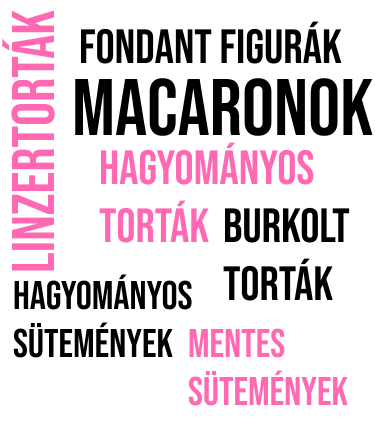
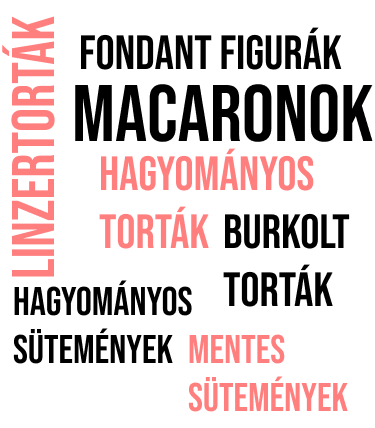
DesktopSlider

diff --git a/src/Components/UI/OpinionSwiper/OpinionData.js b/src/Components/UI/OpinionSwiper/OpinionData.js
@@ -1,68 +1,44 @@
 const Slides = [
   <p>
     „Hihetetlen milyen csodákat készítesz”
-    <br />
-    <br /> <strong>– Laura és Bence</strong>
+    {/*<br />
+    <br /> <strong>– Laura és Bence</strong>*/}
   </p>,
   <p>
     „Egy nap alatt elfogyott az egész, köszönjük!”
-    <br />
-    <br /> <strong>– Viki és Peti</strong>
   </p>,
   <p>
     „Profi munka, csodálatos.”
-    <br />
-    <br /> <strong>– Viki és Peti</strong>
   </p>,
   <p>
     „Megint nem csalódtunk...:)”
-    <br />
-    <br /> <strong>– Kati és Kristóf</strong>
   </p>,
   <p>
     „Ez olyan mint egy álom.
-    <br />
-    <br /> <strong>– Zoli</strong>
   </p>,
   <p>
     „Nagyon finom volt mind!! Mestermunka!!!”
-    <br />
-    <br /> <strong>– Marci</strong>
   </p>,
   <p>
     „Isteni finom és gyönyörű!”
-    <br />
-    <br /> <strong>– Dávid és Betti</strong>
   </p>,
   <p>
     „Óriási sikere volt!”
-    <br />
-    <br /> <strong>– Dávid és Betti</strong>
   </p>,
   <p>
     „Már megint egy csodát alkottál!”
-    <br />
-    <br /> <strong>– Dávid és Betti</strong>
   </p>,
   <p>
     „Ez nagyon klassz lett!”
-    <br />
-    <br /> <strong>– Anikó</strong>
   </p>,
   <p>
     „Fantasztikus édességkölteményeket alkotsz.”
-    <br />
-    <br /> <strong>– Bea</strong>
   </p>,
   <p>
     „Ez ***** jó lett:)!”
-    <br />
-    <br /> <strong>– Zoli</strong>
   </p>,
     <p>
     „Ez is vitte a pálmát.”
-    <br />
-    <br /> <strong>– Dávid és Betti</strong>
   </p>,
 ];
 

diff --git a/src/Components/UI/OpinionSwiper/DesktopSlider.module.css b/src/Components/UI/OpinionSwiper/DesktopSlider.module.css
@@ -1,14 +1,14 @@
 .swiper {
     width: 100%;
     height: 100%;
-    background-color: #ff7f7f;
+    background-color: #FF7F7F;
     padding: 40px;
     padding-bottom: 4rem;
   }
 
   .wrapper{
     padding-bottom: 2rem;
-    background-color: #ff7f7f;
+    background-color: #FF7F7F;
     text-align: center;
   }
   
@@ -24,7 +24,7 @@
     justify-content: center;
     align-items: center;
     /* Set a minimum height */
-    min-height: 200px;
+    min-height: 250px;
     border-radius: 10px;
     padding: 0 25px;
 
@@ -33,7 +33,7 @@
 
   
   .swiper-slide p{
-    font-size: 20px;
+    font-size: 1.6rem;
   }
 
   .swiper-button-prev {
@@ -53,7 +53,7 @@
     color: #ffffff;
     text-align: center;
     font-family: "Bebas Neue";
-    background-color: #ff7f7f;
+    background-color: #FF7F7F;
     display: inline-block;
     position: relative;
     padding-top: 2rem;
@@ -74,16 +74,23 @@
     margin-top: -30px;
     border: none;
     height: 3px;
-    background-color: #ff7f7f;
-    width: 8%;
-    margin-left: auto;
-    margin-right: auto;
+    background-color: #FF69B4;
   }
 
-  @media only screen and (max-width: 600px) {
-
+   /* Mobil eszközök (kis képernyő) */
+@media only screen and (max-width: 400px) {
+  .swiper-slide p{
+    font-size: 1.3rem;
   }
-  
+} 
+
+/* Mobil eszközök (kis képernyő) */
+@media only screen and (min-width: 401px) and (max-width: 767px) {
+  .swiper-slide p{
+    font-size: 1.3rem;
+  }
+}
+
   /* Medium devices (tablets) */
   @media only screen and (min-width: 601px) and (max-width: 960px) {
     .swiper-slide {

diff --git a/src/Components/Layout/Header.js b/src/Components/Layout/Header.js
@@ -12,7 +12,7 @@ import instagram from "../../Assets/SocialIcon/instagram.svg";
 import facebook from "../../Assets/SocialIcon/facebook.svg";
 import CurtainMenu from "./CurtainMenu";
 import CurtainMenuWithLink from "./CurtainMenuWithLink";
-import mainTitle from "../../Assets/CakesPicture/mainTitle.png"
+import mainTitle from "../../Assets/CakesPicture/mainTitle3.png"
 
 function Header() {
   const cartCtx = useContext(CartContext);

diff --git a/src/Components/ParallaxIntroductorySection/ParalaxSection.module.css b/src/Components/ParallaxIntroductorySection/ParalaxSection.module.css
@@ -41,7 +41,7 @@
 }
 
 .pinkText {
-    color: #FF69B4;
+    color: #FF7F7F;
     font-weight: normal;
 }
 
@@ -138,7 +138,7 @@
     transform: translateX(-50%); 
     width: 100%; 
     height: 4px; /* Vonal magassága */
-    background-color: #FF69B4; /* Vonal színe */
+    background-color: #FF7F7F; /* Vonal színe */
   }
 
   @media (min-width: 320px) and (max-width: 375px) {

diff --git a/src/Components/UI/OpinionSwiper/DesktopSlider.js b/src/Components/UI/OpinionSwiper/DesktopSlider.js
@@ -44,7 +44,7 @@ const DesktopSlider = () => {
         autoplay={{
           delay: 6000,
         }}
-        spaceBetween={30}
+        spaceBetween={50}
         pagination={{
           type: "fraction",
         }}
